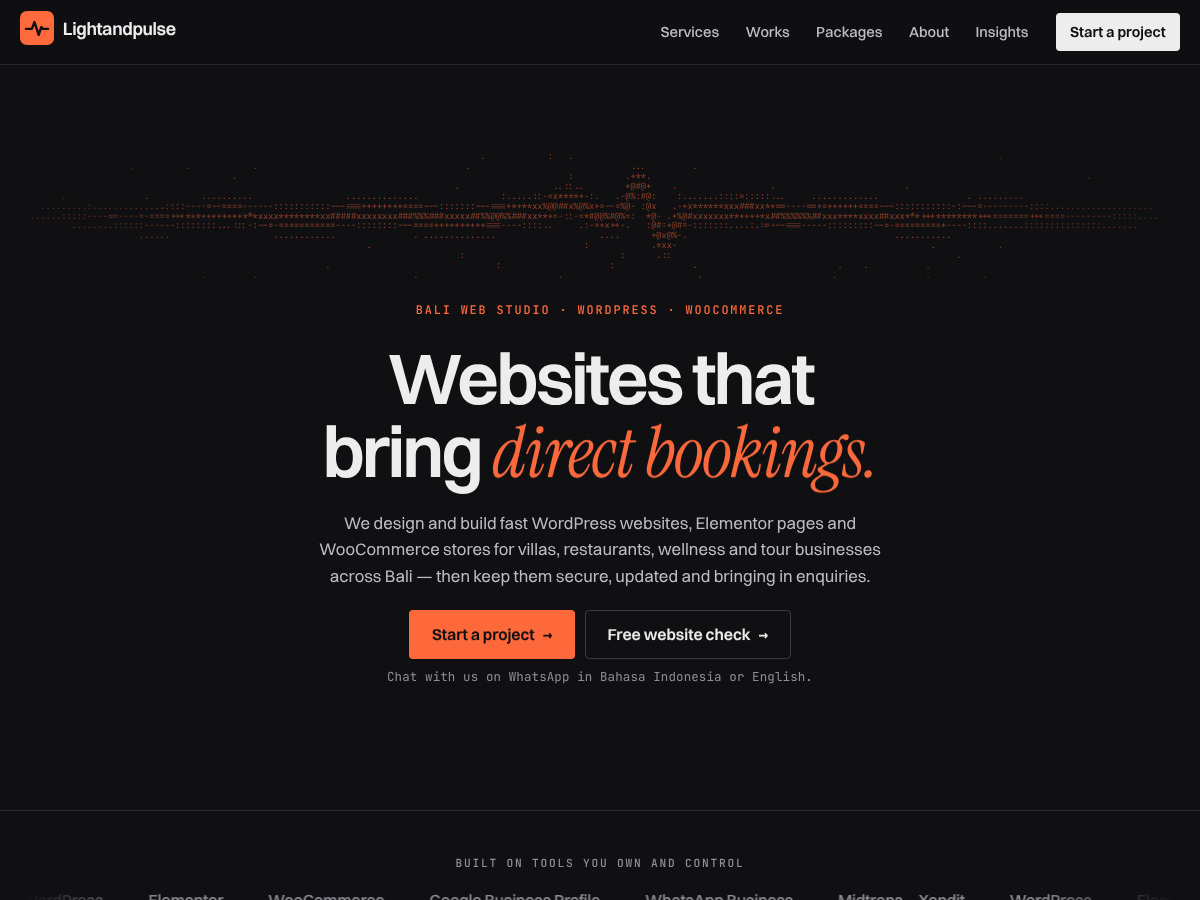
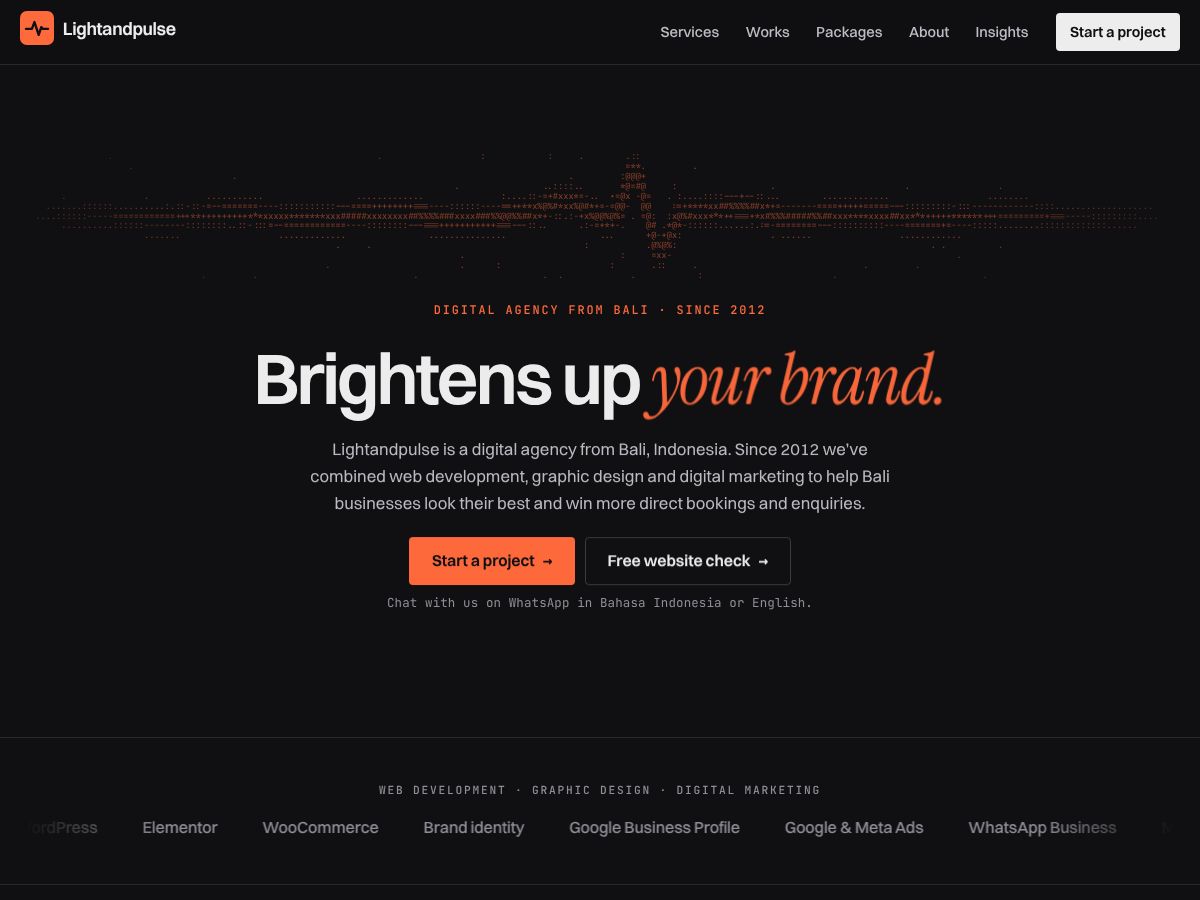
Theme 1.4: merge content from lightandpulse.com
Use the site's own tagline ('Brightens up your brand.'), founding story
(2012, Denpasar), three services (web development, graphic design,
digital marketing) and About page wording. Add Graphic design and
Digital marketing service sections and icons, group the homepage grid by
service, and default the contact details to the published phone, email
and Sukawati, Gianyar address (new address setting in Leads).

Claude-Session: https://claude.ai/code/session_01A2Pw6ArxupYDGX7oGquSMq

diff --git a/wordpress/lightandpulse/assets/css/theme.css b/wordpress/lightandpulse/assets/css/theme.css
@@ -132,7 +132,7 @@ body::before { content: ""; position: fixed; inset: 0 0 auto; height: env(safe-a
 .elementor-section.lp-hero .elementor-widget-button.lp-btn { margin-left: 5px; margin-right: 5px; }
 .elementor-section.lp-hero .lp-note { margin-top: 8px; }
 .elementor-section.lp-hero .lp-lead p { margin-left: auto; margin-right: auto; }
-.elementor-section.lp-hero .lp-display .elementor-heading-title { max-width: 16ch; margin-left: auto; margin-right: auto; }
+.elementor-section.lp-hero .lp-display .elementor-heading-title { max-width: 20ch; margin-left: auto; margin-right: auto; }
 .lp-ascii { margin: 0 auto; max-width: 100%; overflow: hidden; font-family: var(--lp-mono); font-size: clamp(5px, .72vw, 10px); line-height: 1.15; letter-spacing: 0; color: var(--lp-accent); opacity: .55; white-space: pre; text-align: left; display: inline-block;
   -webkit-mask-image: radial-gradient(ellipse 70% 90% at 50% 50%, #000 45%, transparent 100%);
           mask-image: radial-gradient(ellipse 70% 90% at 50% 50%, #000 45%, transparent 100%); }

diff --git a/wordpress/lightandpulse/style.css b/wordpress/lightandpulse/style.css
@@ -4,7 +4,7 @@ Theme URI: https://lightandpulse.com
 Author: Lightandpulse
 Author URI: https://lightandpulse.com
 Description: Lightweight agency theme for Lightandpulse Digital Agency, built for Elementor and WooCommerce. Includes Lightandpulse Leads, a private client-finder and CRM in wp-admin, plus a lead-capture form for your website.
-Version: 1.3.0
+Version: 1.4.0
 Requires at least: 6.2
 Tested up to: 6.8
 Requires PHP: 8.0

diff --git a/wordpress/lightandpulse/inc/setup/content.php b/wordpress/lightandpulse/inc/setup/content.php
@@ -93,9 +93,9 @@ function lightandpulse_starter_pages(): array
                     'class' => 'lp-band lp-hero',
                     'cols'  => [[
                         ['html', lightandpulse_ascii_pulse()],
-                        lightandpulse_eyebrow('Bali web studio · WordPress · WooCommerce'),
-                        ['heading', 'Websites that bring <em>direct bookings.</em>', 'h1', 'lp-display'],
-                        ['text', '<p>We design and build fast WordPress websites, Elementor pages and WooCommerce stores for villas, restaurants, wellness and tour businesses across Bali — then keep them secure, updated and bringing in enquiries.</p>', 'lp-lead'],
+                        lightandpulse_eyebrow('Digital agency from Bali · since 2012'),
+                        ['heading', 'Brightens up <em>your brand.</em>', 'h1', 'lp-display'],
+                        ['text', '<p>Lightandpulse is a digital agency from Bali, Indonesia. Since 2012 we’ve combined web development, graphic design and digital marketing to help Bali businesses look their best and win more direct bookings and enquiries.</p>', 'lp-lead'],
                         ['button', 'Start a project', $contact, 'lp-btn-primary lp-btn-lg'],
                         ['button', 'Free website check', $check, 'lp-btn-ghost lp-btn-lg'],
                         ['text', '<p>Chat with us on WhatsApp in Bahasa Indonesia or English.</p>', 'lp-note'],
@@ -104,25 +104,28 @@ function lightandpulse_starter_pages(): array
                 [
                     'class' => 'lp-band lp-stack-strip',
                     'cols'  => [[
-                        ['text', '<p class="lp-stack-label">Built on tools you own and control</p><ul class="lp-stack"><li>WordPress</li><li>Elementor</li><li>WooCommerce</li><li>Google Business Profile</li><li>WhatsApp Business</li><li>Midtrans · Xendit</li></ul>'],
+                        ['text', '<p class="lp-stack-label">Web development · Graphic design · Digital marketing</p><ul class="lp-stack"><li>WordPress</li><li>Elementor</li><li>WooCommerce</li><li>Brand identity</li><li>Google Business Profile</li><li>Google &amp; Meta Ads</li><li>WhatsApp Business</li><li>Midtrans · Xendit</li></ul>'],
                     ]],
                 ],
                 [
                     'class' => 'lp-band lp-sec-head',
                     'cols'  => [[
                         lightandpulse_eyebrow('What we do'),
-                        ['heading', 'Everything your business needs online, <em>from one studio.</em>', 'h2', 'lp-h2'],
-                        ['text', '<p>From a first website to a full online store, we handle design, build, launch and the care that keeps it working.</p>', 'lp-lead'],
+                        ['heading', 'Web development, graphic design <em>and digital marketing.</em>', 'h2', 'lp-h2'],
+                        ['text', '<p>Websites that mix current technology with simple design, brand work from identity to promotional kits, and advertising through online channels. Everything your brand needs, from one agency.</p>', 'lp-lead'],
                     ]],
                 ],
                 [
                     'class' => 'lp-band lp-grid-band',
                     'cols'  => [
-                        [['card', 'globe', 'WordPress websites', 'Fast, mobile-first websites you can update yourself, designed and built with Elementor.'],
+                        [['card', 'globe', 'Web development', 'Fast, mobile-first WordPress websites built with Elementor: current technology, simple design, easy for you to update.'],
+                         ['card', 'calendar', 'Direct booking', 'Booking engines and enquiry forms that cut OTA commission and send guests straight to you.'],
+                         ['card', 'cart', 'WooCommerce stores', 'Sell at home and abroad with QRIS, bank transfer and cards, plus automatic shipping rates.']],
+                        [['card', 'palette', 'Graphic design', 'Brand identity, from logo, colours and type to the guidelines that keep your brand consistent.'],
+                         ['card', 'layers', 'Promotional kits', 'Menus, brochures, signage and social media templates designed to match your brand.'],
                          ['card', 'pen', 'Redesigns', 'Turn a dated or Wix-built site into a modern WordPress site that matches your brand.']],
-                        [['card', 'calendar', 'Direct booking', 'Booking engines and enquiry forms that cut OTA commission and send guests straight to you.'],
-                         ['card', 'search', 'Local SEO', 'Show up when travellers search Google and Google Maps for what you offer in your area.']],
-                        [['card', 'cart', 'WooCommerce stores', 'Sell at home and abroad with QRIS, bank transfer and cards, plus automatic shipping rates.'],
+                        [['card', 'megaphone', 'Digital marketing', 'Advertising through online channels: Google and Meta ads aimed at the travellers and locals you want.'],
+                         ['card', 'search', 'Local SEO', 'Show up when people search Google and Google Maps for what you offer in your area.'],
                          ['card', 'shield', 'Care plans', 'Updates, backups, security monitoring and small edits every month, handled for you.']],
                     ],
                 ],
@@ -157,13 +160,15 @@ function lightandpulse_starter_pages(): array
                     'class' => 'lp-band lp-soft lp-why',
                     'sizes' => [45, 55],
                     'cols'  => [
-                        [lightandpulse_eyebrow('Why Lightandpulse'), ['heading', 'A local studio that <em>answers on WhatsApp.</em>', 'h2', 'lp-h2']],
+                        [lightandpulse_eyebrow('Why Lightandpulse'), ['heading', 'A Bali agency since 2012, <em>still answering on WhatsApp.</em>', 'h2', 'lp-h2']],
                         [['text', lightandpulse_checklist([
-                            '<b>WhatsApp-first.</b> Quick answers from the people building your site, no ticket queues.',
+                            '<b>Since 2012.</b> We started with a small office and team in Denpasar, and have been building for Bali businesses ever since.',
+                            '<b>Developers with a design eye.</b> The people who build your website also care how it looks and reads.',
+                            '<b>Same care for every project.</b> From small to large, the same approach and the same focus on quality of service.',
+                            '<b>WhatsApp-first.</b> Quick answers from the people working on your project, no ticket queues.',
                             '<b>Bahasa Indonesia and English.</b> For you, your team and your international customers.',
                             '<b>You own everything.</b> Your domain, website and content stay in your name. No lock-in.',
                             '<b>Built on WordPress.</b> The world’s most widely used website platform, so your site is never a dead end.',
-                            '<b>Based in Bali.</b> Same time zone (WITA), and we understand the seasons your business runs on.',
                         ])]],
                     ],
                 ],
@@ -175,7 +180,7 @@ function lightandpulse_starter_pages(): array
         'services' => [
             'title'    => 'Services',
             'sections' => [
-                lightandpulse_page_hero('Services', 'Websites, stores and <em>care</em> for Bali businesses.', 'Everything is built on WordPress, Elementor and WooCommerce, so your site is fast, easy to update and fully yours.'),
+                lightandpulse_page_hero('Services', 'Web development, design <em>and marketing.</em>', 'Three services that work together: websites built on WordPress, Elementor and WooCommerce, graphic design from identity to promotional kits, and advertising through online channels.'),
                 ['class' => 'lp-band lp-service', 'id' => 'websites', 'sizes' => [45, 55], 'cols' => [
                     [['card', 'globe', 'WordPress websites', 'A new website designed around how your customers find and choose you.', 'lp-card-plain']],
                     [['text', lightandpulse_checklist(['Custom design in your brand, built with Elementor', 'Mobile-first and fast on Indonesian mobile networks', 'WhatsApp button, enquiry forms and Google Maps', 'English and Bahasa Indonesia (more languages on request)', 'Training so your team can edit pages and post updates'])]],
@@ -188,15 +193,23 @@ function lightandpulse_starter_pages(): array
                     [['card', 'cart', 'WooCommerce stores', 'Sell products online, in Indonesia and abroad.', 'lp-card-plain']],
                     [['text', lightandpulse_checklist(['Product catalogue, variations and stock', 'Indonesian payment gateways (Midtrans, Xendit) and international cards', 'Local and international shipping rates', 'Order emails, invoices and customer accounts', 'Wholesale or B2B price lists for exporters'])]],
                 ]],
-                ['class' => 'lp-band lp-soft lp-service', 'id' => 'redesign', 'sizes' => [45, 55], 'cols' => [
+                ['class' => 'lp-band lp-soft lp-service', 'id' => 'graphic-design', 'sizes' => [45, 55], 'cols' => [
+                    [['card', 'palette', 'Graphic design', 'From brand identity to promotional kits, so your business looks the same everywhere.', 'lp-card-plain']],
+                    [['text', lightandpulse_checklist(['Logo and brand identity', 'Colour, type and brand guidelines', 'Menus, brochures and price lists', 'Signage, banners and print-ready files', 'Social media templates'])]],
+                ]],
+                ['class' => 'lp-band lp-service', 'id' => 'digital-marketing', 'sizes' => [45, 55], 'cols' => [
+                    [['card', 'megaphone', 'Digital marketing', 'Advertising through online channels, aimed at the customers you want.', 'lp-card-plain']],
+                    [['text', lightandpulse_checklist(['Google Ads and Google Maps promotion', 'Meta ads on Facebook and Instagram', 'Campaigns for high and low season', 'Conversion tracking from click to enquiry', 'A clear monthly report'])]],
+                ]],
+                ['class' => 'lp-band lp-service', 'id' => 'redesign', 'sizes' => [45, 55], 'cols' => [
                     [['card', 'pen', 'Redesign & migration', 'Give an older site, or one on Wix or Blogger, a modern WordPress home.', 'lp-card-plain']],
                     [['text', lightandpulse_checklist(['New design with your existing content moved across', 'Redirects so you keep your Google rankings', 'Faster hosting setup and image optimisation', 'Clean, editable Elementor pages instead of hard-coded templates'])]],
                 ]],
-                ['class' => 'lp-band lp-service', 'id' => 'seo', 'sizes' => [45, 55], 'cols' => [
+                ['class' => 'lp-band lp-soft lp-service', 'id' => 'seo', 'sizes' => [45, 55], 'cols' => [
                     [['card', 'search', 'Local SEO', 'Be found by travellers and locals searching near you.', 'lp-card-plain']],
                     [['text', lightandpulse_checklist(['Google Business Profile setup and optimisation', 'Page titles, descriptions and structured data', 'Speed and Core Web Vitals improvements', 'Content plan for the searches your customers make'])]],
                 ]],
-                ['class' => 'lp-band lp-soft lp-service', 'id' => 'care', 'sizes' => [45, 55], 'cols' => [
+                ['class' => 'lp-band lp-service', 'id' => 'care', 'sizes' => [45, 55], 'cols' => [
                     [['card', 'shield', 'Care plans', 'Keep your website secure, backed up and up to date every month.', 'lp-card-plain']],
                     [['text', lightandpulse_checklist(['WordPress, theme and plugin updates', 'Daily backups and uptime monitoring', 'Security scanning and fixes', 'Small content edits each month', 'A short monthly report'])]],
                 ]],
@@ -234,17 +247,18 @@ function lightandpulse_starter_pages(): array
         'about' => [
             'title'    => 'About',
             'sections' => [
-                lightandpulse_page_hero('About', 'A Bali studio for websites that <em>keep working.</em>', 'Lightandpulse builds websites, online stores and booking systems for businesses across Bali.'),
-                ['class' => 'lp-band', 'sizes' => [50, 50], 'cols' => [
-                    [['heading', 'Light <em>and</em> pulse', 'h2', 'lp-h2']],
-                    [['text', '<p><b>Light</b> is clarity: a website that explains what you offer in seconds, on any phone, in your customers’ language.</p><p><b>Pulse</b> is what keeps it alive after launch: updates, security, fresh content and enquiries arriving every day.</p><p>We work with WordPress, Elementor and WooCommerce because they’re flexible, widely supported and leave you in full control of your own website.</p>']],
+                lightandpulse_page_hero('About', 'Your future <em>digital agency.</em>', 'Established in 2012, Lightandpulse offers the most appropriate and conceptually-based services in web development, graphic design and digital marketing.'),
+                ['class' => 'lp-band', 'sizes' => [42, 58], 'cols' => [
+                    [lightandpulse_eyebrow('Our story'), ['heading', 'From a small office <em>in Denpasar.</em>', 'h2', 'lp-h2']],
+                    [['text', '<p>Lightandpulse is a digital agency from Bali, Indonesia. We started in 2012 with a small office and a small team in Denpasar, building websites for local businesses.</p><p>Today we’re a team of developers with a design eye: the people who build your website also care how your brand looks and reads, online and in print.</p><p>Small projects or large ones, we work the same way, with the same focus on quality of service.</p>']],
                 ]],
-                ['class' => 'lp-band lp-soft lp-grid-band', 'cols' => [
-                    [['card', 'eye', 'Clarity', 'Simple navigation, clear words and fast pages, so visitors know what to do next.']],
-                    [['card', 'key', 'Ownership', 'Your domain, hosting account and content stay in your name. You’re never locked in.']],
-                    [['card', 'heart', 'Care', 'We stay with you after launch, with updates, backups and help when you need it.']],
+                ['class' => 'lp-band lp-sec-head', 'cols' => [[lightandpulse_eyebrow('What we do'), ['heading', 'Three services, <em>one brand.</em>', 'h2', 'lp-h2']]]],
+                ['class' => 'lp-band lp-grid-band', 'cols' => [
+                    [['card', 'globe', 'Web development', 'A mix of current technology and simple design: WordPress, Elementor and WooCommerce websites that are fast and easy to run.']],
+                    [['card', 'palette', 'Graphic design', 'From brand identity to promotional kits, so your business looks consistent everywhere it appears.']],
+                    [['card', 'megaphone', 'Digital marketing', 'Advertising through online channels, aimed at the customers you want and measured from click to enquiry.']],
                 ]],
-                lightandpulse_cta_band('Let’s build something that <em>works for you.</em>', 'Tell us where you are today and where you want to be.', 'Start a project', $contact),
+                lightandpulse_cta_band('Let’s brighten up <em>your brand.</em>', 'Tell us where you are today and where you want to be.', 'Start a project', $contact),
             ],
         ],
 

diff --git a/wordpress/lightandpulse/inc/icons.php b/wordpress/lightandpulse/inc/icons.php
@@ -21,6 +21,9 @@ const LIGHTANDPULSE_ICONS = [
     'arrow'    => '<path d="M5 12h14M13 6l6 6-6 6"/>',
     'key'      => '<circle cx="8" cy="15" r="4"/><path d="m10.8 12.2 9.2-9.2M17 6l3 3M15 8l2 2"/>',
     'heart'    => '<path d="M20.8 8.6a5 5 0 0 0-8.8-3.2 5 5 0 0 0-8.8 3.2c0 5.4 8.8 11.4 8.8 11.4s8.8-6 8.8-11.4Z"/>',
+    'palette'  => '<path d="M12 3a9 9 0 1 0 0 18c1.1 0 1.8-.9 1.8-1.9 0-.5-.2-.9-.5-1.3-.3-.3-.5-.8-.5-1.3 0-1 .8-1.8 1.8-1.8H17a4 4 0 0 0 4-4C21 6.6 17 3 12 3Z"/><circle cx="7.5" cy="11" r="1"/><circle cx="10" cy="7" r="1"/><circle cx="15" cy="7.5" r="1"/>',
+    'layers'   => '<path d="m12 3 9 5-9 5-9-5 9-5Z"/><path d="m3 13 9 5 9-5"/>',
+    'megaphone'=> '<path d="M3 11v2a1 1 0 0 0 1 1h3l5 4V6L7 10H4a1 1 0 0 0-1 1Z"/><path d="M16 9a4 4 0 0 1 0 6M19 6a8 8 0 0 1 0 12"/>',
     'eye'      => '<path d="M2 12s3.6-7 10-7 10 7 10 7-3.6 7-10 7S2 12 2 12Z"/><circle cx="12" cy="12" r="3"/>',
 ];
 
@@ -29,7 +32,7 @@ const LIGHTANDPULSE_FA = [
     'globe' => 'fas fa-globe', 'calendar' => 'fas fa-calendar-check', 'cart' => 'fas fa-shopping-cart',
     'pen' => 'fas fa-pencil-ruler', 'search' => 'fas fa-search-location', 'shield' => 'fas fa-shield-alt',
     'check' => 'fas fa-check', 'chat' => 'fab fa-whatsapp', 'mail' => 'far fa-envelope', 'pin' => 'fas fa-map-marker-alt',
-    'clock' => 'far fa-clock', 'arrow' => 'fas fa-arrow-right', 'key' => 'fas fa-key', 'heart' => 'far fa-heart', 'eye' => 'far fa-eye',
+    'clock' => 'far fa-clock', 'palette' => 'fas fa-palette', 'layers' => 'fas fa-layer-group', 'megaphone' => 'fas fa-bullhorn', 'arrow' => 'fas fa-arrow-right', 'key' => 'fas fa-key', 'heart' => 'far fa-heart', 'eye' => 'far fa-eye',
 ];
 
 function lightandpulse_icon(string $name, string $class = 'lp-icon'): string

diff --git a/wordpress/lightandpulse/inc/leads/views/settings.php b/wordpress/lightandpulse/inc/leads/views/settings.php
@@ -7,13 +7,14 @@ $hasKey = (string) $s['places_api_key'] !== '';
 <?php echo lpl_form_open('settings_save', ['class' => 'form']); ?>
   <div class="card">
     <h2>Your profile</h2>
-    <p class="muted small">Used in message templates.</p>
+    <p class="muted small">Used in message templates, and on the website's Contact page, footer and WhatsApp button.</p>
     <div class="grid2">
       <label>Name used in messages<input name="my_name" value="<?php echo esc_attr($s['my_name']); ?>"></label>
       <label>Agency<input name="my_agency" value="<?php echo esc_attr($s['my_agency']); ?>"></label>
       <label>Website<input name="my_website" value="<?php echo esc_attr($s['my_website']); ?>"></label>
       <label>WhatsApp / phone<input name="my_phone" value="<?php echo esc_attr($s['my_phone']); ?>"></label>
       <label>Email<input type="email" name="my_email" value="<?php echo esc_attr($s['my_email']); ?>"></label>
+      <label>Studio address (shown on the website)<input name="my_address" value="<?php echo esc_attr($s['my_address']); ?>"></label>
       <label>Default follow-up after outreach (days)<input type="number" min="1" max="30" name="followup_days" value="<?php echo (int) $s['followup_days']; ?>"></label>
     </div>
   </div>

diff --git a/wordpress/lightandpulse/inc/setup/setup.php b/wordpress/lightandpulse/inc/setup/setup.php
@@ -12,7 +12,7 @@ require __DIR__ . '/content.php';
 
 const LIGHTANDPULSE_BRAND = [
     'name'     => 'Lightandpulse',
-    'tagline'  => 'Websites that bring Bali businesses direct bookings',
+    'tagline'  => 'Brightens up your brand.',
     'colors'   => ['bg' => '#101012', 'surface' => '#19191c', 'text' => '#ededed', 'body' => '#bcbcc4', 'accent' => '#ff6a3d', 'teal' => '#4fc8ae'],
     'display'  => 'Switzer',
     'body'     => 'Switzer',
@@ -287,7 +287,7 @@ add_shortcode('lightandpulse_contact_info', function () {
     if (!empty($s['my_email'])) {
         $rows[] = ['mail', __('Email', 'lightandpulse'), '<a href="' . esc_url('mailto:' . $s['my_email']) . '">' . esc_html($s['my_email']) . '</a>'];
     }
-    $rows[] = ['pin', __('Studio', 'lightandpulse'), esc_html__('Bali, Indonesia', 'lightandpulse')];
+    $rows[] = ['pin', __('Studio', 'lightandpulse'), esc_html($s['my_address'] ?? '') ?: esc_html__('Bali, Indonesia', 'lightandpulse')];
     $out = '<ul class="lp-contact-list">';
     foreach ($rows as [$icon, $label, $value]) {
         $out .= '<li>' . lightandpulse_icon($icon) . '<span><small>' . esc_html($label) . '</small>' . $value . '</span></li>';

diff --git a/wordpress/lightandpulse/inc/customizer.php b/wordpress/lightandpulse/inc/customizer.php
@@ -16,7 +16,7 @@ add_action('customize_register', function (WP_Customize_Manager $wp_customize) {
         'section' => 'lightandpulse_options',
     ]));
 
-    $wp_customize->add_setting('lightandpulse_whatsapp', ['default' => '', 'sanitize_callback' => 'sanitize_text_field']);
+    $wp_customize->add_setting('lightandpulse_whatsapp', ['default' => '+62 856 3964 250', 'sanitize_callback' => 'sanitize_text_field']);
     $wp_customize->add_control('lightandpulse_whatsapp', [
         'label'       => __('Floating WhatsApp button number', 'lightandpulse'),
         'description' => __('e.g. 0812 3456 7890. Leave empty to hide the button.', 'lightandpulse'),
@@ -40,7 +40,7 @@ add_action('wp_head', function () {
 });
 
 add_action('wp_footer', function () {
-    $number = function_exists('lpl_wa_number') ? lpl_wa_number((string) get_theme_mod('lightandpulse_whatsapp', '')) : '';
+    $number = function_exists('lpl_wa_number') ? lpl_wa_number((string) get_theme_mod('lightandpulse_whatsapp', '+62 856 3964 250')) : '';
     if ($number === '') {
         return;
     }

diff --git a/wordpress/lightandpulse/footer.php b/wordpress/lightandpulse/footer.php
@@ -6,7 +6,7 @@
     <div class="site-footer__grid">
       <div class="site-footer__brand">
         <a class="site-title" href="<?php echo esc_url(home_url('/')); ?>"><?php echo lightandpulse_mark(30); // phpcs:ignore WordPress.Security.EscapeOutput -- static SVG. ?><span><?php bloginfo('name'); ?></span></a>
-        <p><?php esc_html_e('A Bali web studio building WordPress, Elementor and WooCommerce websites, and keeping them running.', 'lightandpulse'); ?></p>
+        <p><?php esc_html_e('A digital agency from Bali, Indonesia, since 2012: web development, graphic design and digital marketing.', 'lightandpulse'); ?></p>
       </div>
       <?php if (has_nav_menu('footer')) : ?>
         <div>

diff --git a/wordpress/lightandpulse/inc/leads/helpers.php b/wordpress/lightandpulse/inc/leads/helpers.php
@@ -211,9 +211,10 @@ function lpl_settings(): array
     $defaults = [
         'my_name'        => 'Lightandpulse',
         'my_agency'      => 'Lightandpulse Digital Agency',
-        'my_website'     => home_url('/'),
-        'my_phone'       => '',
-        'my_email'       => get_option('admin_email'),
+        'my_website'     => 'https://lightandpulse.com',
+        'my_phone'       => '+62 856 3964 250',
+        'my_email'       => 'hello@lightandpulse.com',
+        'my_address'     => 'Sukawati, Gianyar, Bali',
         'followup_days'  => 3,
         'places_api_key' => '',
         'osm_endpoint'   => LPL_OSM_DEFAULT_ENDPOINT,

diff --git a/wordpress/lightandpulse/inc/leads/handlers.php b/wordpress/lightandpulse/inc/leads/handlers.php
@@ -372,7 +372,7 @@ function lpl_handle_import(): void
 function lpl_handle_settings_save(): void
 {
     $s = lpl_settings();
-    foreach (['my_name', 'my_agency', 'my_phone'] as $k) {
+    foreach (['my_name', 'my_agency', 'my_phone', 'my_address'] as $k) {
         $s[$k] = sanitize_text_field(lpl_post($k));
     }
     $s['my_website'] = esc_url_raw(lpl_post('my_website'));

diff --git a/wordpress/lightandpulse/functions.php b/wordpress/lightandpulse/functions.php
@@ -8,7 +8,7 @@
  */
 defined('ABSPATH') || exit;
 
-define('LIGHTANDPULSE_VERSION', '1.3.0');
+define('LIGHTANDPULSE_VERSION', '1.4.0');
 define('LIGHTANDPULSE_DIR', get_template_directory());
 define('LIGHTANDPULSE_URI', get_template_directory_uri());
 
